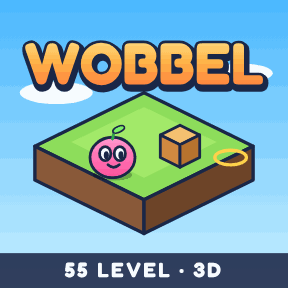
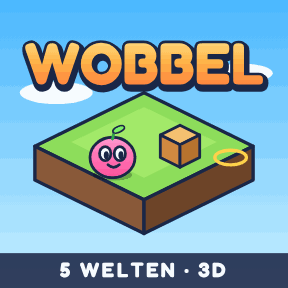
Wobbel: erste Version – 30 verifizierte Level, Bibliotheks-Kachel, README
Claude-Session: https://claude.ai/code/session_01RDuXDAG7qUEuMiSybSjtdR

Changed region(s): [[0.1875, 0.9062, 0.7812, 0.9688]]

diff --git a/index.html b/index.html
@@ -145,6 +145,8 @@ const GAMES = [
     path: 'anmacha-gesucht/', desc: 'Das Ratestudio: Hinweis-Raten, Fragen-Raten, Gesichter-Radar und Stirnband-Party – allein oder mit bis zu 4 Spielern.' },
   { id: 'anmacha-kart', title: 'AnMaCha Kart Rush', icon: '🏎', img: 'anmacha-kart/card.png', bg: 'linear-gradient(145deg,#2a78e8,#00e5ff 50%,#ff2d95)', glow: 'rgba(42,120,232,.55)',
     path: 'anmacha-kart/', desc: 'Arcade-Kartrennen in 3D: 5 Welten (Strand, Geistergruft, Fantasia …), 6 Karts, 12 Figuren, Bananen, Steine & Blitze – solo am Handy oder mit bis zu 4 Handys als Lenkrad.' },
+  { id: 'wobbel', title: 'Wobbel', icon: '🟣', img: 'wobbel/card.png', bg: 'linear-gradient(145deg,#4ab8ff,#ff6fb0 60%,#ffb347)', glow: 'rgba(74,184,255,.55)',
+    path: 'wobbel/', desc: 'Das Schiebe-Puzzle in 3D von RicoReWi: Kisten auf Ziele schieben – mit Wasser, Farben, Eis und Schlüsseln in 5 Welten.' },
   { id: 'zotik', title: 'ZOTIK', icon: '💠', bg: 'linear-gradient(145deg,#7a3cff,#19f0ff)', glow: 'rgba(25,240,255,.45)', external: true,
     path: 'https://ricorewioriginal-collab.github.io/zotik/', desc: 'Die Splitter der Welten – Browser-Spiel.' }
 ];

diff --git a/wobbel/js/main.js b/wobbel/js/main.js
@@ -80,7 +80,7 @@ syncSet();
 
 // ---------------------------------------------------------------- Schleife
 function resize() { view.resize(innerWidth, innerHeight); if (playing) applyPad(); } addEventListener('resize', resize); resize();
-let last = performance.now(); (function loop(n) { requestAnimationFrame(loop); const dt = Math.min(0.05, (n - last) / 1000); last = n; session.update(); view.tick(dt); })(last);
+let last = performance.now(); (function loop(n) { requestAnimationFrame(loop); const dt = Math.min(0.05, (n - last) / 1000) * (window.__ffwd || 1); last = n; session.update(); view.tick(dt); })(last);
 document.addEventListener('pointerdown', () => { Audio_.unlock(); if (!playing) Music.play('menu'); }, { once: true });
 document.addEventListener('visibilitychange', () => { if (document.hidden) Music.setOn(false); else Music.setOn(Save.settings.music); });
 window.__wobbel = { view, get session() { return session; }, LEVELS, Save, startLevel, toMenu };

diff --git a/wobbel/index.html b/wobbel/index.html
@@ -5,7 +5,7 @@
 <meta name="viewport" content="width=device-width,initial-scale=1,viewport-fit=cover,user-scalable=no">
 <meta name="theme-color" content="#7fd2ff">
 <title>Wobbel – Das Schiebe-Puzzle</title>
-<meta name="description" content="Wobbel – 3D-Schiebe-Puzzle mit 55 Levels in 5 Welten. Ein Spiel von RicoReWi.">
+<meta name="description" content="Wobbel – 3D-Schiebe-Puzzle mit Wasser, Farben, Eis und Schlüsseln. Ein Spiel von RicoReWi.">
 <link rel="preconnect" href="https://cdnjs.cloudflare.com" crossorigin>
 <link rel="preconnect" href="https://fonts.googleapis.com"><link rel="preconnect" href="https://fonts.gstatic.com" crossorigin>
 <link href="https://fonts.googleapis.com/css2?family=Fredoka:wght@500;600;700&display=swap" rel="stylesheet">

diff --git a/wobbel/js/game/levels/par.js b/wobbel/js/game/levels/par.js
@@ -1,0 +1,2 @@
+/* Automatisch erzeugt (npm run par): kürzeste Lösung in Zügen je verifiziertem Level. Nur diese Level kommen ins Spiel. */
+export default {"1-1":3,"1-2":4,"1-4":15,"2-1":15,"2-2":6,"2-5":14,"2-6":11,"2-7":9,"2-8":22,"2-9":21,"2-11":33,"3-1":4,"3-2":7,"3-3":18,"3-4":10,"3-5":20,"3-6":25,"3-7":21,"4-1":3,"4-2":6,"4-3":9,"4-4":13,"4-5":33,"4-6":31,"4-7":40,"4-8":60,"4-9":68,"4-10":80,"5-1":9,"5-2":24};

diff --git a/README.md b/README.md
@@ -210,3 +210,10 @@ Eigenständiges Rollenspiel im 16-Bit-Stil – eigene Helden, Welten und Monster
 - **Steuerung:** *Handy:* links Daumen ziehen = analog lenken, rechts Drift / Item / Bremse, optional Kippen. *PC:* ←/→ lenken, ↓ bremsen, Shift driften, Leertaste Item, `M` Ton, `Esc` Pause. *Gamepad* (PC oder am Handy gekoppelt): Stick/Steuerkreuz lenken, A/X/RB/RT driften, Y/LB Item, B/LT bremsen.
 - **Mehrspieler (2–4):** Der große Bildschirm zeigt das Rennen im Splitscreen, die Handys koppeln per Code/QR (PeerJS) und sind Lenkrad (inkl. Figur- und Kartwahl). Am Host zusätzlich Tastatur- und Gamepad-Spieler. Bots füllen auf 8 Karts auf (3 Stärken, Gummiband).
 - **Technik:** Simulation (`sim.js`) und Strecken (`track.js`) ohne Grafik-Abhängigkeit, Sounds per WebAudio, Logos `anmacha-kart/logos/01..13`, Titel-Logo `anmacha-kart/logo.png`.
+
+## Wobbel – Das Schiebe-Puzzle (RicoReWi)
+
+- **Spiel:** Eigenständiges 3D-Puzzle im Sokoban-Prinzip (ohne AnMaCha-Branding): Wobbel schiebt Kisten auf Zielfelder. Fünf Welten mit neuen Elementen – Wasser (Brücken bauen), Farben und Kleckse, Eis, Schlüssel und Türen.
+- **Level:** handentworfen und von einem Löser (Breitensuche) auf Lösbarkeit geprüft; nur bestätigte Level kommen ins Spiel (aktuell 30, weitere folgen). Sterne nach Zügen im Vergleich zur kürzesten Lösung.
+- **Steuerung:** Pfeile/WASD, Wischen oder Tippen auf ein Feld (läuft hin), Rückgängig, Neustart, Kamera drehen; Fortschritt wird gespeichert.
+- Ausführliche Doku, Projektstruktur und Tests: [`wobbel/README.md`](wobbel/README.md).

diff --git a/wobbel/README.md b/wobbel/README.md
@@ -1,6 +1,6 @@
 # Wobbel – Das Schiebe-Puzzle
 
-Ein modernes 3D-Browser-Puzzlespiel im Sokoban-Prinzip von **RicoReWi**: Wobbel, ein kleiner rosa Blob, schiebt Kisten auf Zielfelder – durch fünf bunte Welten mit **55 handentworfenen Leveln**, die alle automatisch auf Lösbarkeit geprüft sind.
+Ein modernes 3D-Browser-Puzzlespiel im Sokoban-Prinzip von **RicoReWi**: Wobbel, ein kleiner rosa Blob, schiebt Kisten auf Zielfelder – durch fünf bunte Welten. Alle Level sind handentworfen und werden automatisch auf Lösbarkeit geprüft – **nur vom Löser bestätigte Level kommen ins Spiel** (aktuell 30, weitere folgen laufend).
 
 ## Starten
 
@@ -75,8 +75,8 @@ wobbel/
 ```bash
 cd wobbel
 node tests/engine-tests.js                                   # Regeln (Schieben, Wasser, Eis, Farben, Schlüssel …)
-node --max-old-space-size=4096 tests/check-levels.js         # alle 55 Level: Aufbau, Lösbarkeit, Züge/Schübe/Zustände
-node --max-old-space-size=4096 tests/build-par.js            # Par-Werte neu berechnen
+node --max-old-space-size=4096 tests/check-levels.js         # alle Level: Aufbau, Lösbarkeit, Züge/Schübe/Zustände
+node --max-old-space-size=4096 tests/build-par.js            # Level verifizieren, Par-Werte + Freigabe neu berechnen (js/game/levels/par.js)
 ```
 
 `check-levels.js` löst jedes Level per Breitensuche über sämtliche Spielzüge, **spielt die gefundene Lösung mit der echten Spiellogik nach** und meldet jedes unlösbare oder zu große Level.
